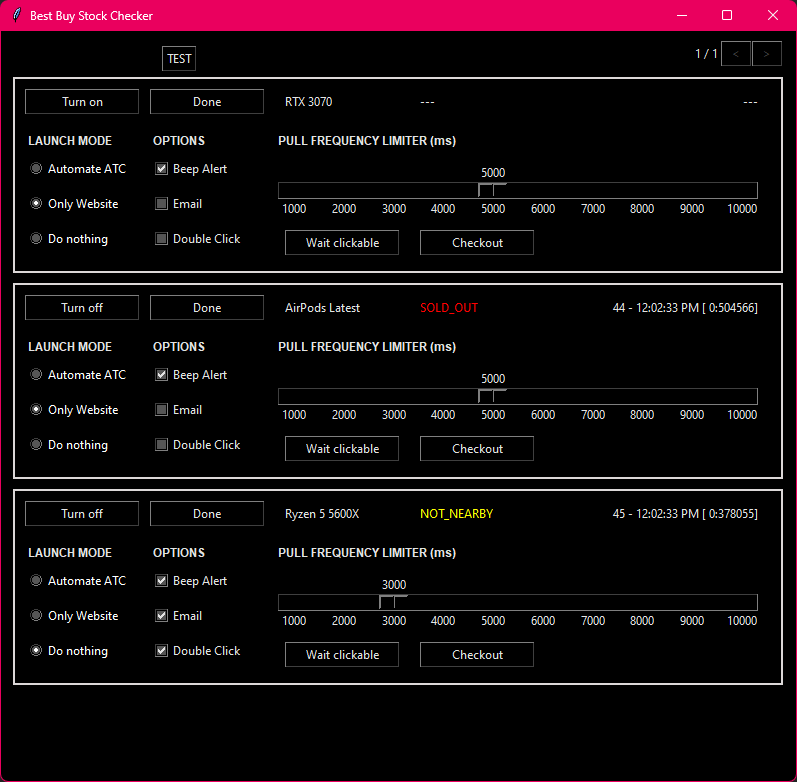
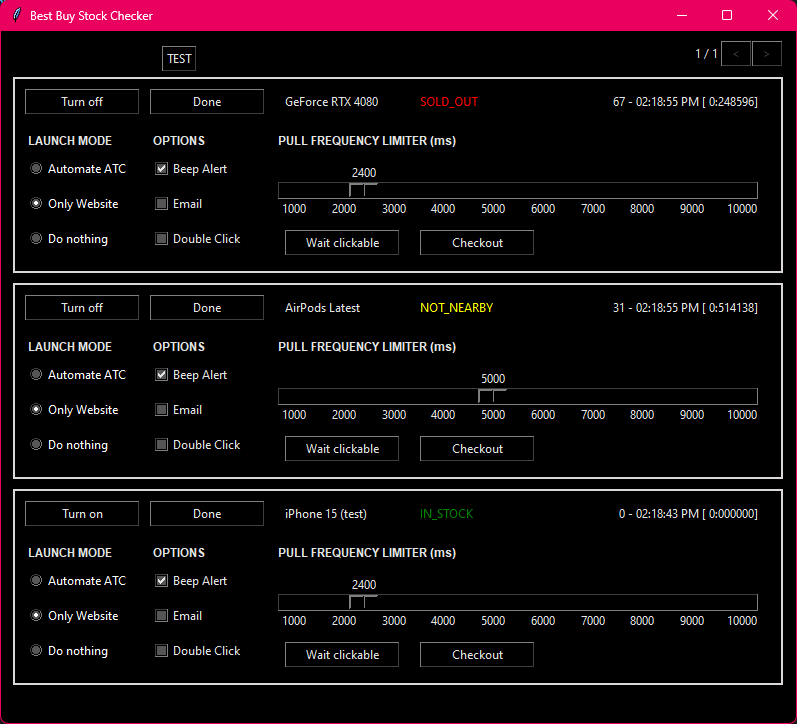
update images, projects section

diff --git a/index.html b/index.html
@@ -37,7 +37,8 @@
         <!-- Left Section: Profile with Image -->
         <div class="profile-spacer">
             <div id="profile">
-                <img src="images/ultramarathon_selfie.JPG" alt="A selfie of myself on my first ultramarathon."
+                <div id="profile-about">
+                    <img src="images/ultramarathon_selfie.JPG" alt="A selfie of myself on my first ultramarathon."
                     class="profile-photo">
                 <table id="personal-info">
                     <tbody>
@@ -63,75 +64,78 @@
                         </tr>
                     </tbody>
                 </table>
+                </div>
                 <!-- <p>
                     I dabble in a little bit of everything software-engineering.
                 </p> -->
-                <table id="contact-info">
-                    <tbody>
-                        <tr>
-                            <td>
-                                <a href="mailto:fjsoto1199@gmail.com">
-                                    <img src="images/email.png" class="icon">
-                                </a>
-                            </td>
-                            <td>
-                                <a href="mailto:fjsoto1199@gmail.com">
-                                    fjsoto1199@gmail.com
-                                </a>
-                            </td>
-                        </tr>
+                <div id="profile-contact-info">
+                    <table>
+                        <tbody>
+                            <tr>
+                                <td>
+                                    <a href="mailto:fjsoto1199@gmail.com">
+                                        <img src="images/email.png" class="icon">
+                                    </a>
+                                </td>
+                                <td>
+                                    <a href="mailto:fjsoto1199@gmail.com">
+                                        fjsoto1199@gmail.com
+                                    </a>
+                                </td>
+                            </tr>
+    
+                            <tr>
+                                <td>
+                                    <a href="tel:+12243342827">
+                                        <img src="images/phone.png" class="icon">
+                                    </a>
+                                </td>
+                                <td>
+                                    <a href="tel:+12243342827">
+                                        (224) 334-2827
+                                    </a>
+                                </td>
+                            </tr>
+                            <tr>
+                                <td>
+                                    <a href="https://github.com/fsoto-GH">
+                                        <img src="images/github.svg" class="icon">
+                                    </a>
+                                </td>
+                                <td>
+                                    <a href="https://github.com/fsoto-GH">
+                                        github.com/fsoto-GH
+                                    </a>
+                                </td>
+                            </tr>
+                            <tr>
+                                <td>
+                                    <a href="https://www.linkedin.com/in/fsoto-li">
+                                        <img src="images/linkedIn.png" class="icon">
+                                    </a>
+                                </td>
+                                <td>
+                                    <a href="https://www.linkedin.com/in/fsoto-li">
+                                        linkedin.com/in/fsoto-li
+                                    </a>
+                                </td>
+                            </tr>
+                            <tr>
+                                <td>
+                                    <a href="https://www.strava.com/athletes/fjsoto"><img src="images/strava.svg"
+                                            class="icon"></a>
+                                </td>
+                                <td>
+                                    <a href="https://www.strava.com/athletes/fjsoto">
+                                        strava.com/athletes/fjsoto
+                                    </a>
+                                </td>
+                            </tr>
+                        </tbody>
+                    </table>
+                </div>
 
-                        <tr>
-                            <td>
-                                <a href="tel:+12243342827">
-                                    <img src="images/phone.png" class="icon">
-                                </a>
-                            </td>
-                            <td>
-                                <a href="tel:+12243342827">
-                                    (224) 334-2827
-                                </a>
-                            </td>
-                        </tr>
-                        <tr>
-                            <td>
-                                <a href="https://github.com/fsoto-GH">
-                                    <img src="images/github.svg" class="icon">
-                                </a>
-                            </td>
-                            <td>
-                                <a href="https://github.com/fsoto-GH">
-                                    github.com/fsoto-GH
-                                </a>
-                            </td>
-                        </tr>
-                        <tr>
-                            <td>
-                                <a href="https://www.linkedin.com/in/fsoto-li">
-                                    <img src="images/linkedIn.png" class="icon">
-                                </a>
-                            </td>
-                            <td>
-                                <a href="https://www.linkedin.com/in/fsoto-li">
-                                    linkedin.com/in/fsoto-li
-                                </a>
-                            </td>
-                        </tr>
-                        <tr>
-                            <td>
-                                <a href="https://www.strava.com/athletes/fjsoto"><img src="images/strava.svg"
-                                        class="icon"></a>
-                            </td>
-                            <td>
-                                <a href="https://www.strava.com/athletes/fjsoto">
-                                    strava.com/athletes/fjsoto
-                                </a>
-                            </td>
-                        </tr>
-
-                    </tbody>
-                </table>
-                <div id="resume">
+                <div id="profile-resume">
                     <table>
                         <tbody>
                             <tr>
@@ -197,10 +201,7 @@
                                             and stability. This transition reduced
                                             flakiness and accelerated automation development time, improving overall
                                             testing efficiency.</li>
-                                        <li>Investigated and resolved pipeline build failures caused by unit test
-                                            timeouts, implementing a lazy loading strategy that
-                                            improved build times by 7x and reduced build failures by 43%, enhancing
-                                            CI/CD pipeline efficiency and reliability.</li>
+                                        <li></li>
                                     </ul>
                                 </td>
                             </tr>
@@ -261,8 +262,10 @@
                                             activity and facilitating data-driven decision-making.
                                         </li>
                                         <li>Identified and resolved two crucial bugs, leading to a 15% improvement in
-                                            page load times, significantly enhancing site
+                                            page load times, enhancing site
                                             performance and user experience.</li>
+                                        <li>Collaborated with senior engineers to analyze and document stored procedure 
+                                            usage, evaluate performance metrics, and outline deprecation strategies to support upcoming initiatives.</li>
                                     </ul>
                                 </td>
                             </tr>
@@ -369,7 +372,7 @@
                             <tr>
                                 <td class="project-images">
                                     <div>
-                                        <img class="project-image" src="images/gantt_maker/gantt_roundrobin.png"
+                                        <img class="project-image" src="images/gantt_maker/gantt_sjf.png"
                                             alt="An image of my Gantt Chart maker application, showcasing round robin with 10 processes and a quantum of 4.">
                                     </div>
                                 </td>
@@ -381,17 +384,44 @@
                     <table>
                         <tbody>
                             <tr>
-                                <td>Stock Checker</td>
+                                <td>Item Stock Checker</td>
                             </tr>
                             <tr>
-                                <td>Portable Application | Python, Tkinter</td>
+                                <td>Cross-Platform Application | Python, Tkinter, Web Scraping</td>
+                            </tr>
+                            <tr>
+                                <td class="project-description">
+                                    This project was inspired by the challenges of building a personal gaming computer during the GPU shortage caused by the COVID-19 pandemic and the bitcoin mining boom. 
+                                    At the time, GPUs were difficult to find in stock due to high demand and automated bots, and retailers like BestBuy implemented anti-bot mechanisms, making it a race for availability.                                    
+                                    
+                                    To address this, I developed a cross-platform desktop application using Python and Tkinter to streamline GPU stock tracking and automate portions of the checkout process. 
+                                    The app provided a graphical interface for checking real-time stock availability from BestBuy, leveraging Python's web scraping libraries to navigate dynamic content and stock updates.
+                                </td>
                             </tr>
                             <tr>
                                 <td>
                                     <ul class="aligned-list">
                                         <li>
+                                            Leveraged Python's web scraping libraries to automate stock checks and assist in the checkout process, initially focused on BestBuy.
+                                        </li>
+                                        <li>
+                                            Addressed challenges like dynamic web content and bot detection mechanisms to ensure robust performance.
+                                        </li>
+                                        <li>
+                                            Explored and implemented various notification methods, ranging from basic audio alerts to advanced push notifications, ensuring timely updates.
+                                        </li>
+                                        <li>
+                                            Enhanced the application from a basic UI to a dynamic interface, enabling users to configure polling intervals and select preferred launch modes for improved flexibility and usability.
                                         </li>
                                     </ul>
+                                </td>
+                            </tr>
+                            <tr>
+                                <td class="project-images">
+                                    <div>
+                                        <img class="project-image" src="images/stock_checker/stock_checker.png"
+                                            alt="An image of my item stock checker application.">
+                                    </div>
                                 </td>
                             </tr>
                         </tbody>

diff --git a/styles/shared/profile.css b/styles/shared/profile.css
@@ -16,8 +16,11 @@
 }
 
 #profile {
-    padding-left: 2rem;
     padding-right: 2rem;
+    height: 100%;
+    display: flex;
+    flex-wrap: wrap;
+    align-content: space-between;
 }
 
 #profile .profile-photo {
@@ -66,18 +69,18 @@
     margin-right: 1rem;
 }
 
-#profile #contact-info, #profile #headline {
-    padding-top: 3rem;
-}
-
 #profile p {
     color: #cccccc;
 }
 
+#profile div:not(:first-child) {
+    padding-top: 5%;
+}
 
-#profile #resume {
+#profile #profile-resume {
     display: flex;
     flex-direction: row;
+    align-items: center;
     align-items: flex-end;
     width: 100%;
     padding-bottom: 10%;

diff --git a/styles/shared/content.css b/styles/shared/content.css
@@ -41,6 +41,7 @@ body {
     display: flex;
     flex-direction: column;
     border-left: 1px solid #303030;
+    background: #181818;
 }
 
 #main #nav-bar ul {
@@ -107,12 +108,8 @@ body {
 }
 
 #main .aligned-list li {
-    padding-left: 20px;
+    padding-left: 1.5rem;
     text-indent: -1.5rem;
-}
-
-.scrolled {
-    background: #181818;
 }
 
 #main .section {
@@ -125,7 +122,6 @@ body {
 #main .right {
     text-align: right;
 }
-
 
 #main h1,
 #main h2,

diff --git a/styles/index/index.css b/styles/index/index.css
@@ -1,6 +1,6 @@
 .project-image {
     width: max(40vw, 40vh);
-    border-radius: 15px;
+    border-radius: 6px;
     border: 1px solid #b0b0b0;
 }
 
